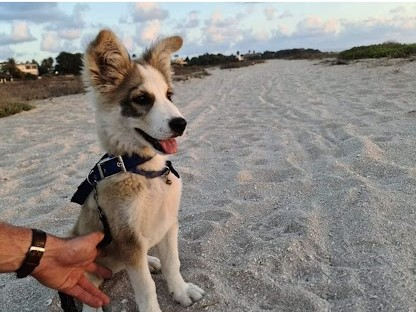
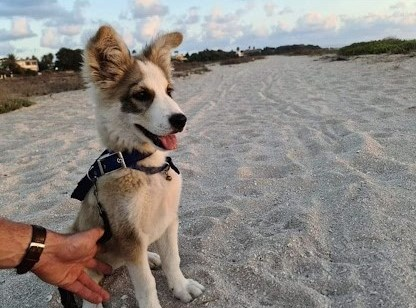
Complete - Fix some img styling, put text, put contact info

diff --git a/style.css b/style.css
@@ -7,11 +7,11 @@ h1{
   color: purple;
   text-shadow: 1px 1px 4px grey;
   font-weight: 600;
-  margin: 0 32px 0 0;
+  margin: 0 20px 0 0;
 }
 header{
   display: block;
-  margin: 32px;
+  margin: 20px;
 
 }
 header nav{
@@ -29,7 +29,7 @@ header a{
   margin: 0 5px;
   font-weight: 600;
 }
-header a:hover{
+.hover:hover, #about .hover:hover{
   border-bottom: 1px solid;
   color: rgba(216, 112, 147, 0.782);
 }
@@ -44,21 +44,83 @@ header ul{
 
 .card img{
   width: 100%;
+  height: 90%;
   max-width: 600px;
-  height: 500px;
   object-fit: cover;
   border-radius: 10px;
-  box-shadow: 10px 10px 8px rgb(169, 152, 152);
+  box-shadow: 10px 10px 8px rgb(169, 152, 152), 10px 10px 8px rgba(0, 0, 0, 0.496);
+  border: 1px solid black;
 }
 
 .card{
   display: inline-block;
   width: 49.75%;
   min-width: 500px;
-  height: 600px;
+  height: 650px;
   min-height: 500px;
-  padding: 50px;
+  padding: 20px;
   box-sizing: border-box;
 
+}
+
+.card h2{
+  margin: 10px 0 5px 5px;
+}
+
+#work{
+  padding: 0px 16px;
+  font-weight: 300;
+}
+
+#about{
+  margin: 50px 0 100px 150px;
+  width: 70%;
+  min-width: 500px;
+}
+
+#about > p{
+  font-weight: 600;
+  font-size: 25px;
+}
+
+#contact ul{
+  display: inline-block;
+  padding: 0;
+  margin: 0;
+}
+
+#contact li{
+  display: inline-block;
+  margin: 0 5px;
+}
+
+#contact a{
+  text-decoration: none;
+  color: black;
+  font-size: 20px;
+}
+
+#contact{
+  font-size: 22px;
+  font-weight: 500;
+}
+
+#contact p{
+  margin: 0;
+}
+
+.italic{
+  font-style: italic;
+}
+
+#contact > .contact-info p{
+  display: inline-block;
+  margin-right: 10px;
+  margin-top: 5px;
+}
+
+.card img:hover{
+  opacity: 0.9;
+  border: 1px rgb(169, 76, 169) solid;
 }
 

diff --git a/index.html b/index.html
@@ -14,9 +14,9 @@
     <h1>Toffee | Our Beautiful Dog</h1>
     <nav>
       <ul>
-        <li><a href="#work" class="active">Work</a></li>
-        <li><a href="#about">About</a></li>
-        <li><a href="#contact">Contact</a></li>
+        <li><a href="#work" class="active hover">Work</a></li>
+        <li><a href="#about" class="hover">About</a></li>
+        <li><a href="#contact"class="hover">Contact</a></li>
       </ul>
     </nav>
   </header>
@@ -47,12 +47,22 @@
         <h2>Even Superman needs to sleep</h2>
       </div>
     </section>
-    <section id="about">
-      <h2>Some text here</h2>
-    </section>
   </main>
-  <footer id="contact">
-    <h2>Some text here</h2>
-  </footer>
+  <section id="about">
+    <p>  
+      I’m a Computer Science graduate, currently expanding my skills through hands-on web development projects. This site is part of my HTML & CSS training — a playful way to practice design, layout, and structure using photos of Toffee, our beloved dog.
+    </p>
+    <footer id="contact">
+      <p>Created by <span class="italic">Michal Bucks</span></p>
+      <div class="contact-info">
+        <p>Connect with me:</p>
+        <ul>
+          <li><a href="mailto:michall1900@gmail.com" class="hover italic" target="_blank">Email</a></li>
+          <li><a href="https://www.linkedin.com/in/michal-bucks/" target="_blank" class="hover italic">LinkedIn</a></li>
+          <li><a href="https://github.com/michall1900" target="_blank" class="hover italic">GitHub</a></li>
+        </ul>
+      </div>
+    </footer>
+  </section>
 </body>
 </html>
